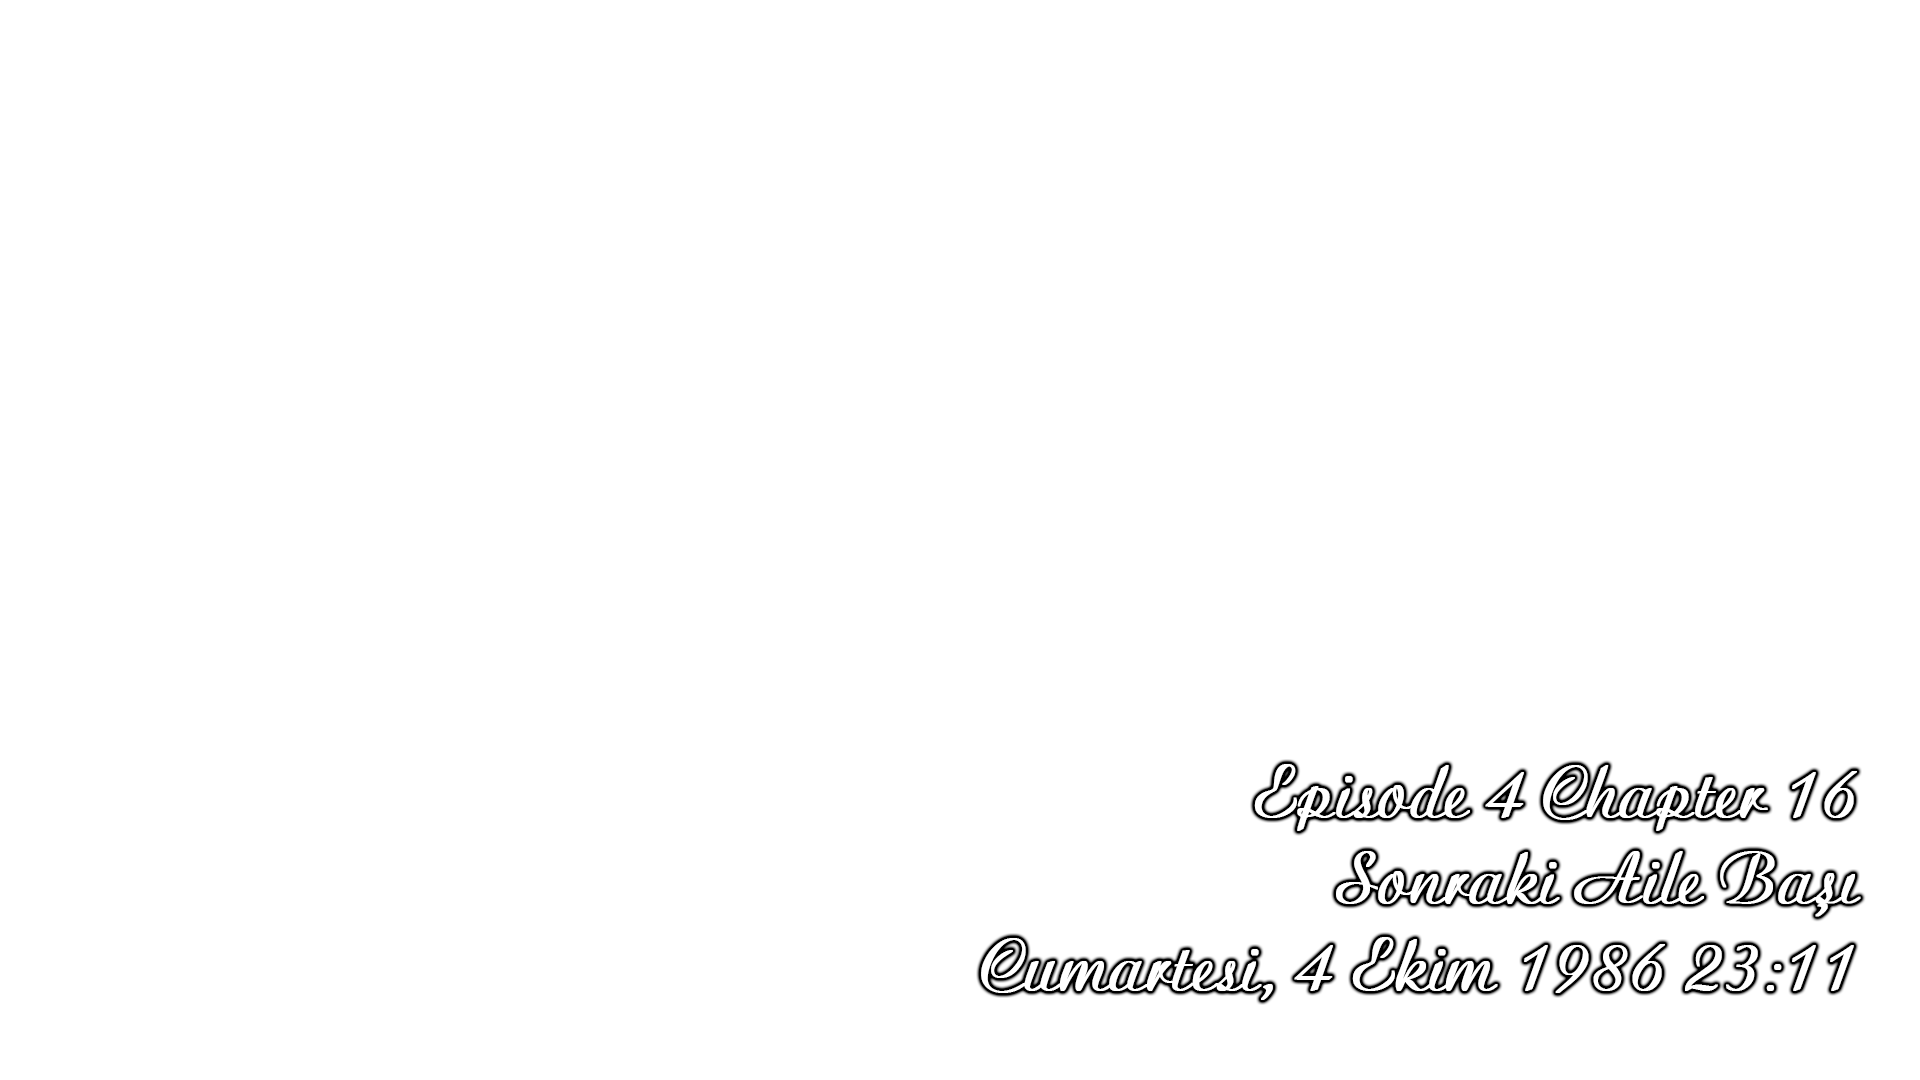
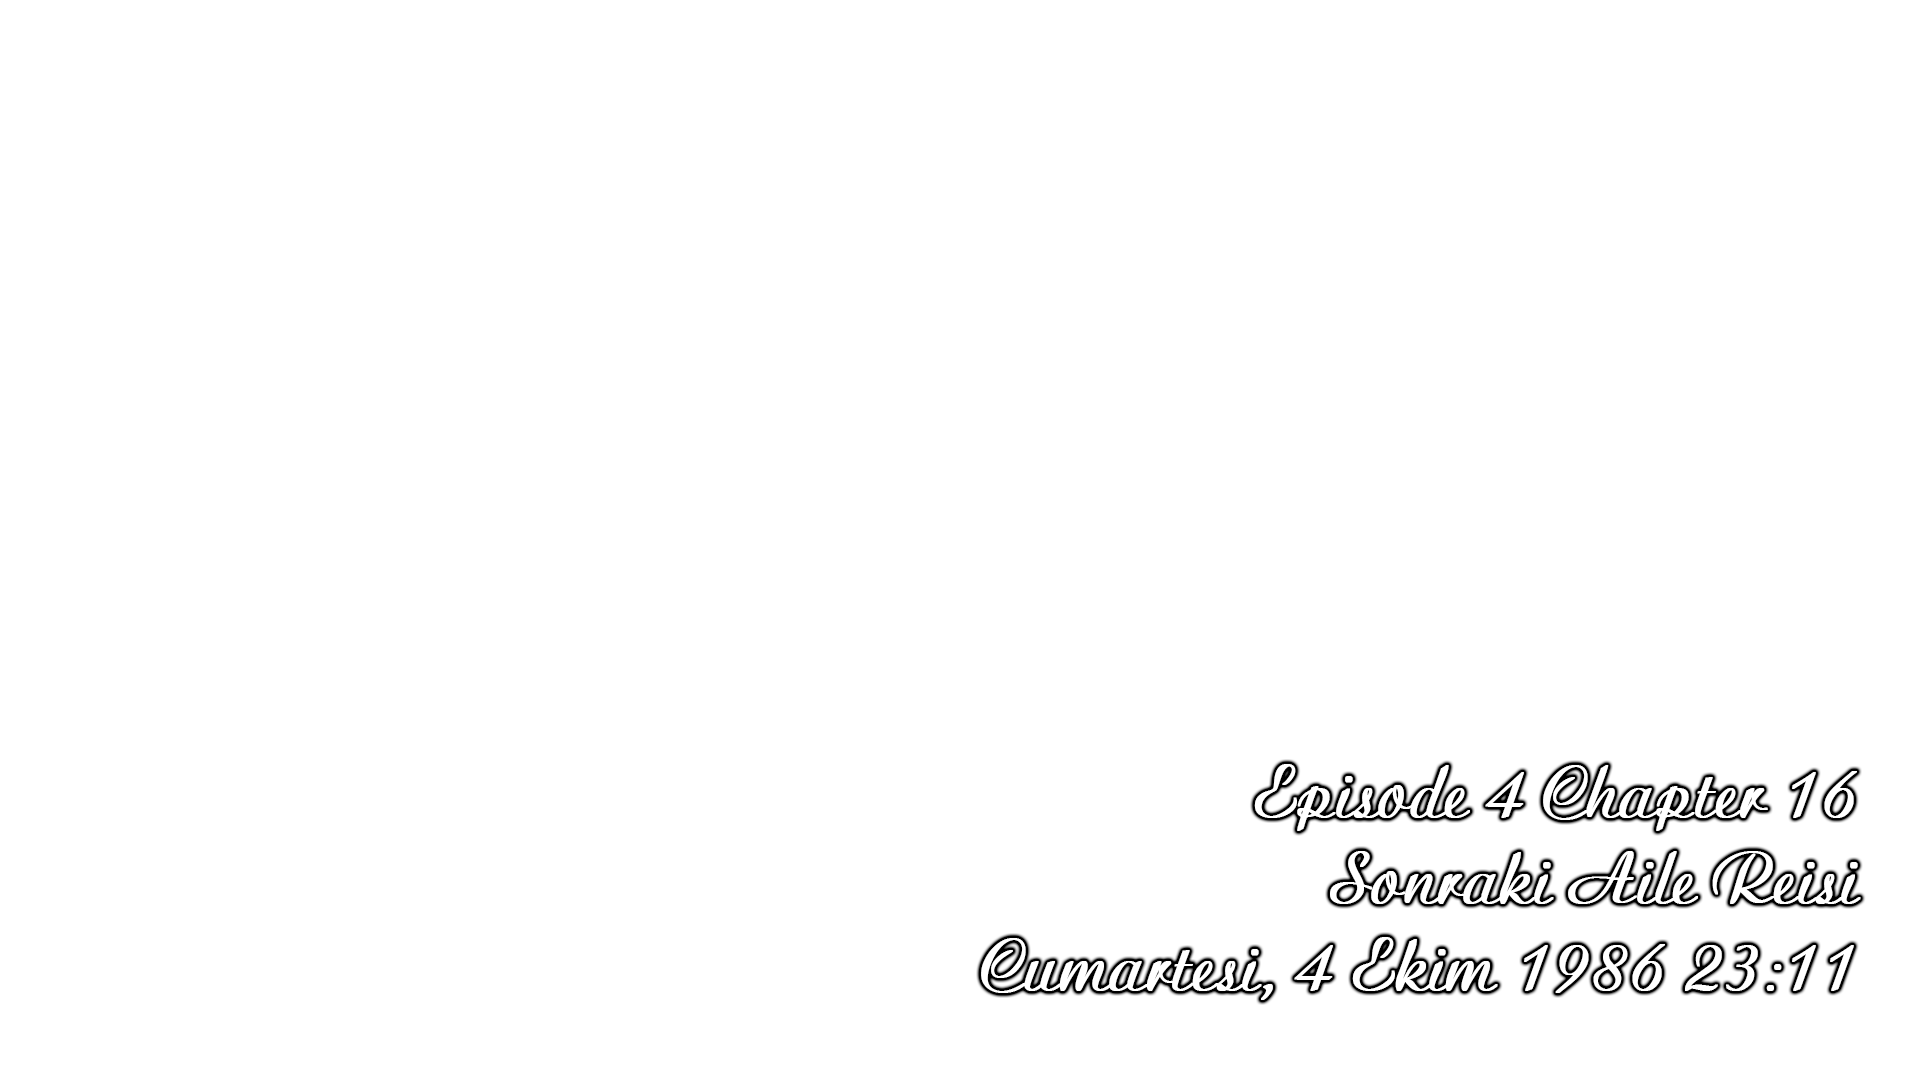
Update

Changed region(s): [[0.6875, 0.7639, 0.9688, 0.8556]]

diff --git a/README.md b/README.md
@@ -42,6 +42,7 @@ Düzenli olarak çeviri yapmayı düşünüyorsanız benimle iletişime geçerek
    * Butler `->` Uşak
    * Culprit `->` Suçlu
    * Epitaph `->` Kitabe
+   * Family Head `->` Aile Reisi
    * Fragment (Kakera olan) `->` Kakera
    * Furniture `->` Mobilya
    * Game Master `->` Oyun Yöneticisi
